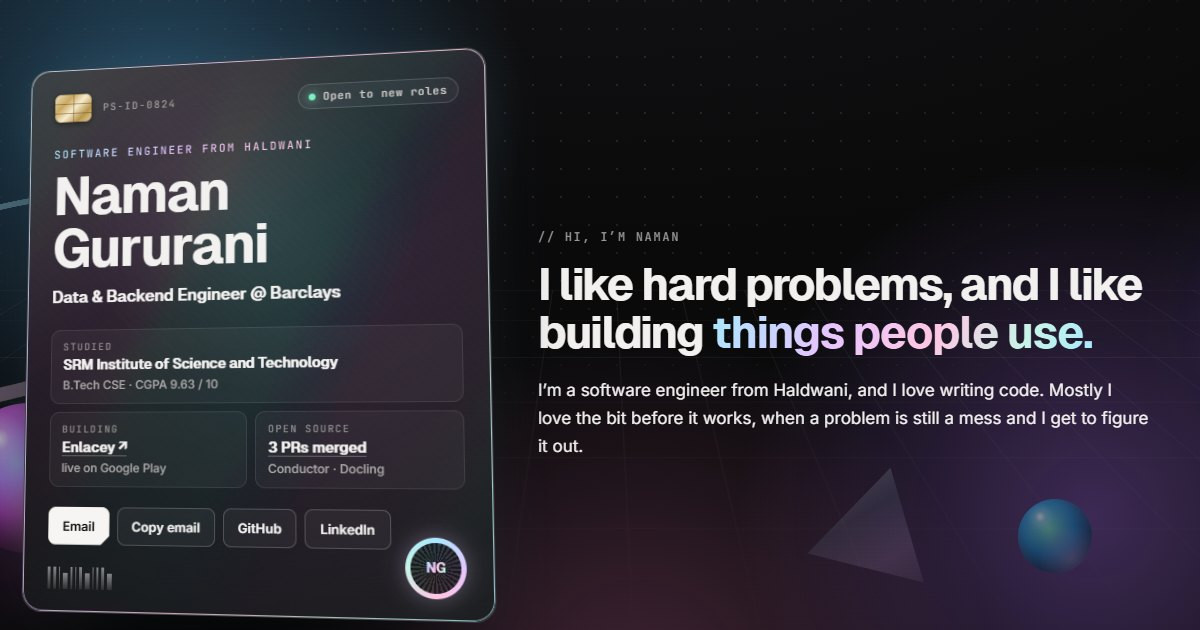
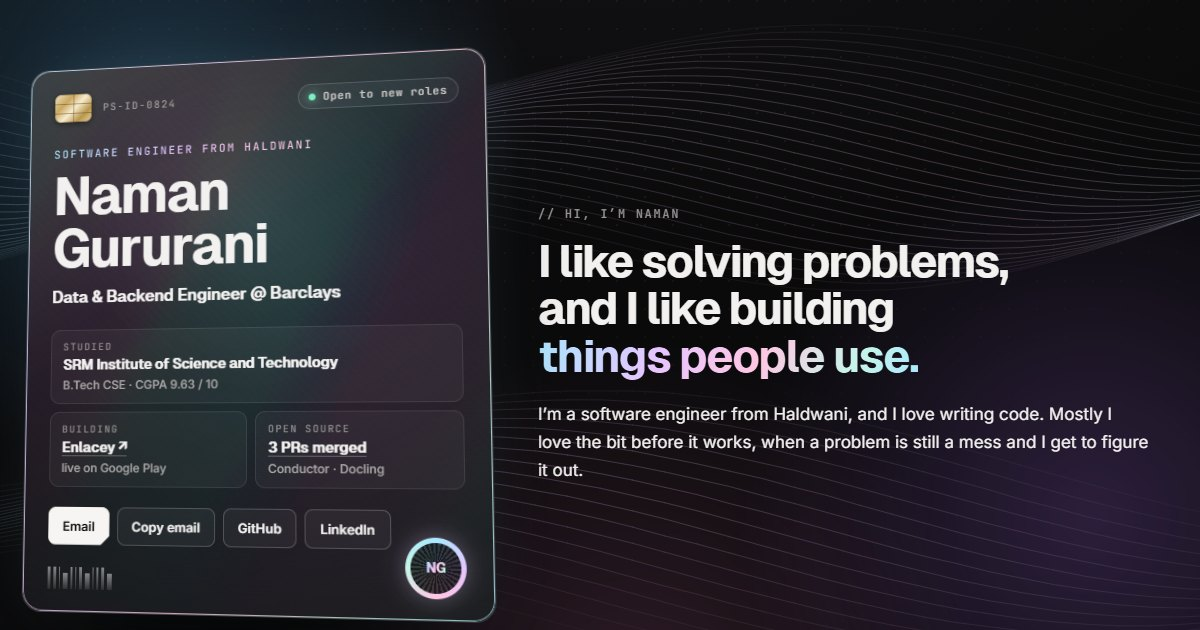
feat(resume): silk background, 'I like solving problems', SIH on its own
Claude-Session: https://claude.ai/code/session_01SVLAWGJCNP4Y3sCH8cUJPD

diff --git a/src/resume/render.ts b/src/resume/render.ts
@@ -291,12 +291,37 @@ function footer(): string {
 </footer>`
 }
 
+/**
+ * The background: two ribbons of thin lines that drift like light on silk,
+ * drawn once here as plain SVG paths (no images, no script). Each ribbon is
+ * a stack of gently phase-shifted sine waves; the middle lines are brightest.
+ */
+export function silk(): string {
+  const ribbon = (n: number, y0: number, gap: number, amp: number, freq: number, phase: number) => {
+    const out: string[] = []
+    for (let i = 0; i < n; i++) {
+      const pts: string[] = []
+      for (let x = -80; x <= 1680; x += 40) {
+        const y = y0 + i * gap + amp * Math.sin(x * freq + phase + i * 0.11) + amp * 0.6 * Math.sin(x * freq * 0.37 + i * 0.05)
+        pts.push(`${x},${Math.round(y)}`)
+      }
+      const o = (0.06 + 0.3 * Math.sin((Math.PI * (i + 0.5)) / n)).toFixed(2)
+      out.push(`<path d="M${pts.join(' L')}" stroke-opacity="${o}"/>`)
+    }
+    return out.join('')
+  }
+  return `<svg class="silk" viewBox="0 0 1600 1000" preserveAspectRatio="xMidYMid slice" focusable="false">
+<defs><linearGradient id="silk-ink" x1="0" y1="0" x2="1" y2="0"><stop offset="0" stop-color="var(--h1)"/><stop offset="0.45" stop-color="var(--h2)"/><stop offset="0.8" stop-color="var(--h3)"/><stop offset="1" stop-color="var(--h1)"/></linearGradient></defs>
+<g class="silk-a" fill="none" stroke="url(#silk-ink)" stroke-width="1">${ribbon(26, 170, 9, 70, 0.0042, 0.2)}</g>
+<g class="silk-b" fill="none" stroke="url(#silk-ink)" stroke-width="1">${ribbon(18, 640, 11, 90, 0.0031, 2.1)}</g>
+</svg>`
+}
+
 /** The whole `<body>` content. */
 export function renderResume(): string {
   return [
     '<a class="skip" href="#main">Skip to content</a>',
-    '<div class="scene" aria-hidden="true"><div class="glow g1"></div><div class="glow g2"></div><div class="glow g3"></div><div class="floor"></div><div class="dots"></div>' +
-      '<div class="orb o1"></div><div class="orb o2"></div><div class="orb o3"></div><div class="ring"><div class="ring-in"></div></div><div class="prism"></div></div>',
+    `<div class="scene" aria-hidden="true"><div class="glow g1"></div><div class="glow g2"></div><div class="glow g3"></div><div class="dots"></div>${silk()}</div>`,
     ribbon(),
     bar(),
     '<main id="main">',

diff --git a/src/resume/resume.css b/src/resume/resume.css
@@ -3428,3 +3428,79 @@ details > summary::-webkit-details-marker {
     transition: none !important;
   }
 }
+
+/* ============================================================
+   v6.2 — the background is silk, not glass balls: two ribbons of thin
+   holographic lines drift slowly behind the panes.
+   ============================================================ */
+
+.orb,
+.ring,
+.prism,
+.floor {
+  display: none;
+}
+
+.silk {
+  position: absolute;
+  inset: -6% -4%;
+  width: 108%;
+  height: 112%;
+  -webkit-mask-image: radial-gradient(120% 90% at 50% 40%, #000 35%, transparent 85%);
+  mask-image: radial-gradient(120% 90% at 50% 40%, #000 35%, transparent 85%);
+}
+
+:root[data-theme='light'] .silk {
+  opacity: 0.7;
+  filter: saturate(1.4) brightness(0.75);
+}
+
+.glow {
+  filter: blur(10px);
+}
+
+.g1 {
+  background: radial-gradient(circle, rgba(80, 185, 255, 0.22) 0%, transparent 62%);
+}
+
+.g2 {
+  background: radial-gradient(circle, rgba(180, 115, 255, 0.2) 0%, transparent 60%);
+}
+
+.g3 {
+  background: radial-gradient(circle, rgba(255, 125, 195, 0.14) 0%, transparent 60%);
+}
+
+.dots {
+  opacity: 0.3;
+}
+
+@media (prefers-reduced-motion: no-preference) {
+  .silk-a {
+    animation: silk-a 34s ease-in-out infinite alternate;
+  }
+
+  .silk-b {
+    animation: silk-b 42s ease-in-out infinite alternate;
+  }
+}
+
+@keyframes silk-a {
+  to {
+    transform: translate(-60px, 26px);
+  }
+}
+
+@keyframes silk-b {
+  to {
+    transform: translate(70px, -30px);
+  }
+}
+
+.silk {
+  opacity: 0.8;
+}
+
+:root[data-theme='light'] .silk {
+  opacity: 0.55;
+}

diff --git a/tests/resume-personal.test.ts b/tests/resume-personal.test.ts
@@ -29,7 +29,7 @@ describe('the intro is about Naman, not his job', () => {
 
   it('tells a story: home, code, problems, his own app, and who he wants to meet', () => {
     const story = text('.hero-copy')
-    for (const bit of ['Haldwani', 'Enlacey', 'hard problem']) expect(story).toContain(bit)
+    for (const bit of ['Haldwani', 'Enlacey', 'I like solving problems']) expect(story).toContain(bit)
     expect(story).toMatch(/building something of your own/i)
     expect(story).toMatch(/hiring/i)
   })
@@ -200,5 +200,18 @@ describe('v6.1 review fixes', () => {
   it('reveals chapters without folding them, so there is no toggle and no hidden text', () => {
     expect(doc.querySelector('.ch-toggle')).toBeNull()
     expect(doc.querySelector('.ch-more[hidden], .ch-more[aria-hidden]')).toBeNull()
+  })
+})
+
+describe('v6.2 (Naman, 17 Nov)', () => {
+  it('gives the Smart India Hackathon and InnoHacks 2.0 their own tiles', () => {
+    const acts = [...doc.querySelectorAll('#leadership .act')].map((a) => a.textContent ?? '')
+    expect(acts.some((a) => /Smart India Hackathon/.test(a) && !/KIET/.test(a))).toBe(true)
+    expect(acts.some((a) => /InnoHacks 2\.0/.test(a) && /KIET/.test(a) && /2023/.test(a))).toBe(true)
+  })
+
+  it('replaces the glass balls with silk lines in the background', () => {
+    expect(doc.querySelector('.scene .orb, .scene .ring, .scene .prism')).toBeNull()
+    expect(doc.querySelectorAll('.scene svg.silk path').length).toBeGreaterThan(20)
   })
 })

diff --git a/src/data/resume.ts b/src/data/resume.ts
@@ -68,7 +68,7 @@ export const PERSON = {
   blog: 'https://naman-gururani.github.io/blog/',
   kicker: 'Software engineer from Haldwani',
   hello: 'hi, I’m Naman',
-  headline: ['I like hard problems,', 'and I like building', 'things people use.'],
+  headline: ['I like solving problems,', 'and I like building', 'things people use.'],
   story: [
     'I’m a software engineer from Haldwani, and I love writing code. Mostly I love the bit before it works, when a problem is still a mess and I get to figure it out.',
     'My day job is at Barclays. I work on the backend that tracks payments in real time.',
@@ -81,6 +81,7 @@ export const PERSON = {
     'Building apps end to end',
     'Backend & system design',
     'Problem solving',
+    'Hackathons',
     'Starting something of my own',
     'Open source',
     'The gym',
@@ -336,10 +337,16 @@ export const ACTIVITIES: Activity[] = [
     when: '2021–2022',
   },
   {
-    what: 'Hackathons',
-    where: 'KIET Group of Institutions hackathon · Smart India Hackathon',
+    what: 'InnoHacks 2.0',
+    where: 'KIET Group of Institutions, Ghaziabad',
+    when: 'Apr 2023',
+    detail: 'A 24-hour in-person hackathon. Ours was the only team from SRM.',
+  },
+  {
+    what: 'Smart India Hackathon',
+    where: 'India’s national student hackathon',
     when: 'B.Tech',
-    detail: 'At KIET, ours was the only team from SRM.',
+    detail: 'Took part with a team from SRM.',
   },
   {
     what: 'Project lead, twice',
